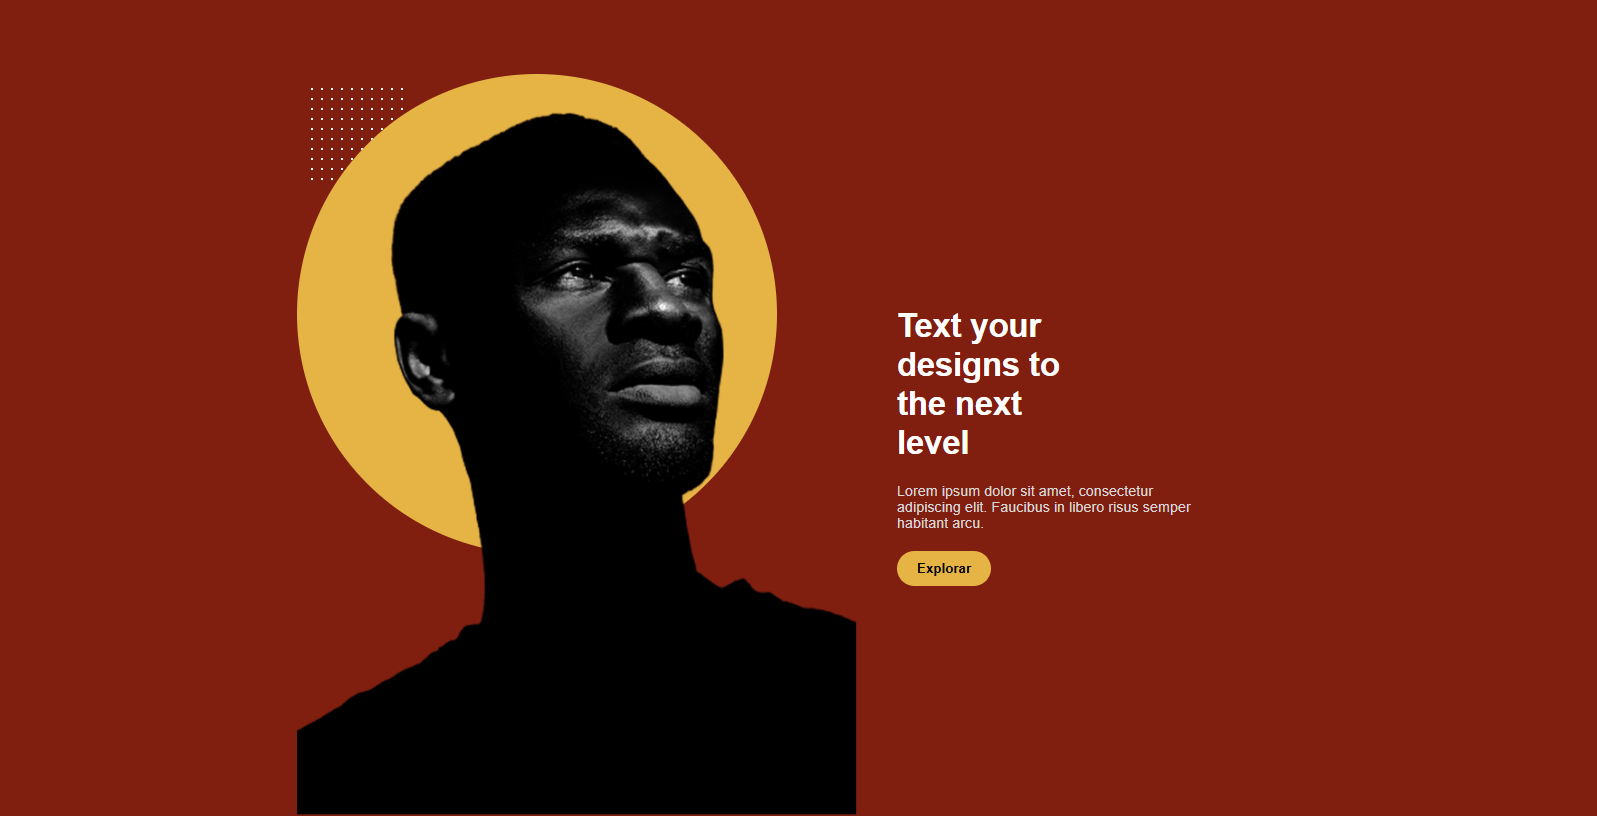
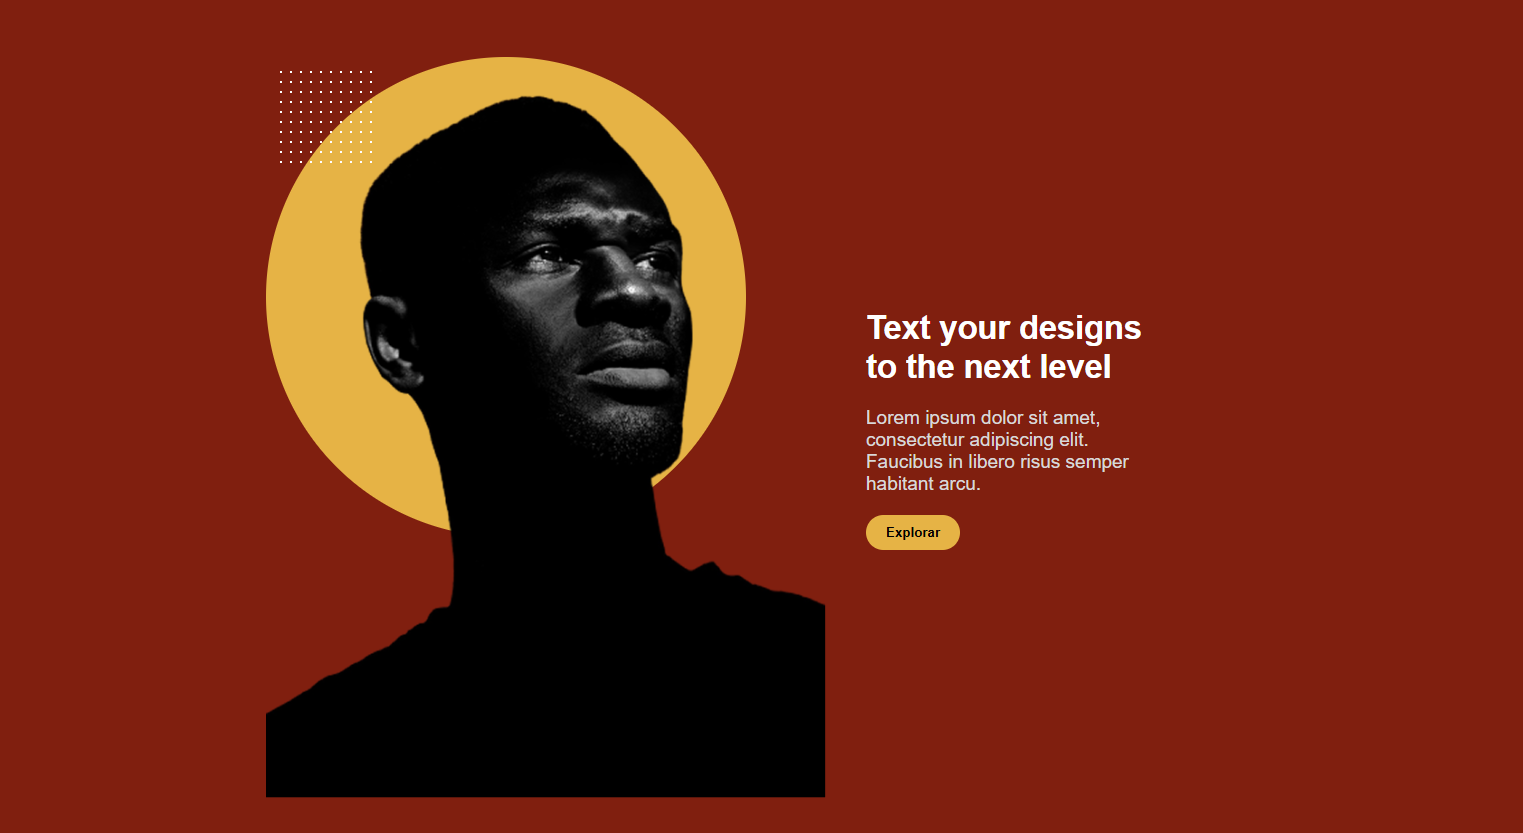
committtt

Changed region(s): [[0.1543, 0.0613, 0.4938, 0.6434], [0.1852, 0.3676, 0.7406, 1.0], [0.1543, 0.5515, 0.3086, 0.9498]]

diff --git a/carta8/estilos.css b/carta8/estilos.css
@@ -1,0 +1,56 @@
+
+* {
+  margin: 0;
+  padding: 0;
+  box-sizing: border-box;
+}
+
+body, html {
+  height: 80%;
+  font-family: sans-serif;
+}
+
+.heroe {
+  background-image: url('imagenes/emile-seguin-R9OueKOtGGU-unsplash\ 1.png'); 
+  background-size: cover;
+  background-position: center;
+  height: 100vh;
+  color: #000;
+  display: flex;
+  justify-content: center;
+  align-items: center;
+  text-align: center;
+  padding: 0 20px;
+ 
+}
+
+.heroe-contenido {
+  max-width: 600px;
+}
+
+.heroe h1 {
+  font-size: 2.5rem;
+  font-weight: 700;
+  margin-bottom: 20px;
+}
+
+.heroe p {
+  font-size: 1rem;
+  color: #333;
+  margin-bottom: 30px;
+  line-height: 1.6;
+}
+
+.boton {
+  background-color: #000;
+  color: #fff;
+  padding: 12px 24px;
+  text-decoration: none;
+  border-radius: 25px;
+  font-size: 1rem;
+  transition: background 0.3s ease;
+}
+
+.boton:hover {
+  background-color: #333;
+}

diff --git a/carta8/index.html b/carta8/index.html
@@ -1,0 +1,18 @@
+<!DOCTYPE html>
+<html lang="en">
+<head>
+  <meta charset="UTF-8" />
+  <meta name="viewport" content="width=device-width, initial-scale=1.0" />
+  <title>Carta9</title>
+  <link rel="stylesheet" href="estilos.css" />
+</head>
+<body>
+  <section class="heroe">
+    <div class="heroe-contenido">
+      <h1>Walk through the <br> world with us</h1>
+      <p>Lorem ipsum dolor sit amet, consectetur adipiscing elit. Cursus imperdiet sed id elementum. Quam vel aliquam sit vulputate. Faucibus nec gravida ipsum pulvinar vel.</p>
+      <a href="#" class="boton">Get started</a>
+    </div>
+  </section>
+</body>
+</html>

diff --git a/carta7/index.html b/carta7/index.html
@@ -14,7 +14,7 @@
       <div class="puntos"></div>
     </div>
     <div class="seccion-texto">
-      <h1>Text your<br />designs to<br /> the next<br /><span class="resaltado">level</span></h1>
+      <h1>Text your designs to the next <span class="resaltado">level</span></h1>
       <p>Lorem ipsum dolor sit amet, consectetur adipiscing elit. Faucibus in libero risus semper habitant arcu.</p>
       <button class="boton-explorar">Explorar</button>
     </div>

diff --git a/index.html b/index.html
@@ -74,8 +74,8 @@
 				</div>
 
 				<div class="gallery-item">
-					<a href="maqueta8.html" target="_blank">
-						<img src="images/8.jpg" alt="Prototip 8" />
+					<a href="carta8/index.html" target="_blank">
+						<img src="imagenes/carta8.png" alt="Prototip 8" />
 					</a>
 					<h3>Prototip 8</h3>
 				</div>
